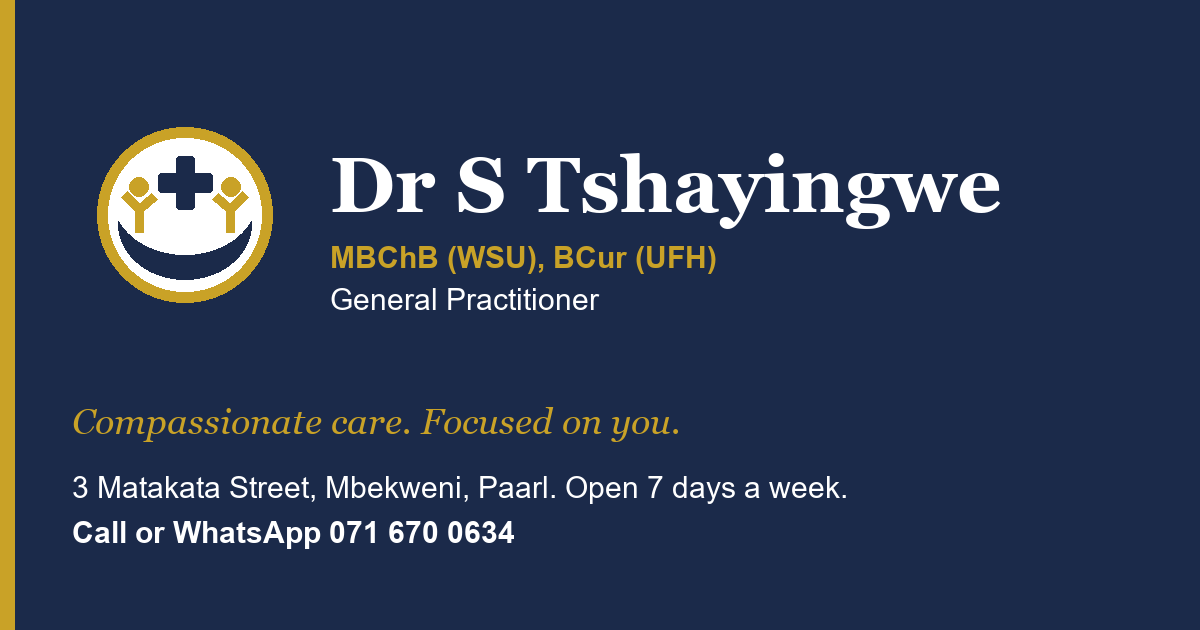
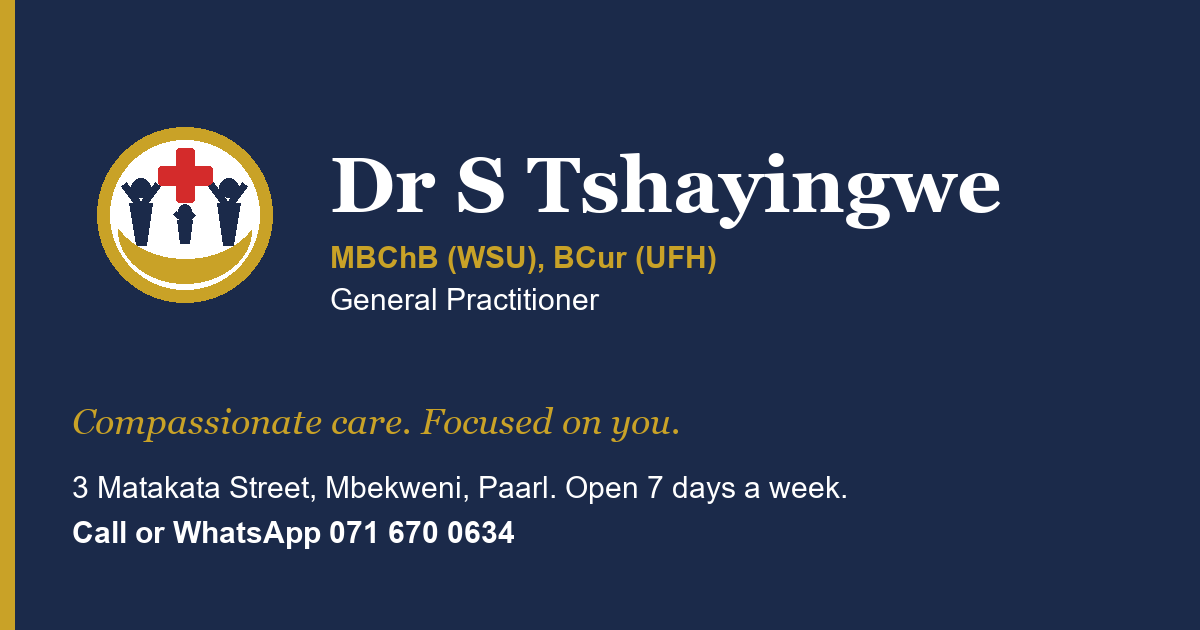
Brand emblem per acrylic-sign mockup (red cross, navy figures, gold hands); practice sees emergencies during opening times

Changed region(s): [[0.0925, 0.2111, 0.2158, 0.4524]]

diff --git a/src/components/Emblem.tsx b/src/components/Emblem.tsx
@@ -1,8 +1,9 @@
 /**
- * The practice emblem, redrawn as vector from the physical sign:
- * gold ring, navy medical cross, two gold figures with raised arms,
- * navy cupped hands holding them. Approved artwork should replace this
- * once a vector master exists.
+ * The practice emblem, redrawn as vector from the brand mockup:
+ * gold ring, red medical cross, two navy figures with raised arms,
+ * a smaller child figure, gold cupped hands holding them.
+ * Replace with the vectorised master once ChatGPT/Illustrator produces it
+ * (see Downloads\Dr S Tshayingwe Practice\Brand\Logo & Brand Prompts.md).
  */
 export default function Emblem({
   className = 'h-12 w-12',
@@ -22,40 +23,25 @@ export default function Emblem({
       aria-label={decorative ? undefined : title}
       focusable="false"
     >
-      <circle cx="50" cy="50" r="46" fill="#fff" stroke="#C9A227" strokeWidth="6" />
-      {/* cross */}
-      <rect x="45" y="19" width="10" height="28" rx="1.5" fill="#1B2A4A" />
-      <rect x="36" y="28" width="28" height="10" rx="1.5" fill="#1B2A4A" />
-      {/* left figure */}
-      <circle cx="26" cy="35" r="5" fill="#C9A227" />
-      <path
-        d="M26 59 V47 M26 47 L18 39 M26 47 L34 40"
-        stroke="#C9A227"
-        strokeWidth="5"
-        strokeLinecap="round"
-        fill="none"
-      />
-      {/* right figure */}
-      <circle cx="74" cy="35" r="5" fill="#C9A227" />
-      <path
-        d="M74 59 V47 M74 47 L82 39 M74 47 L66 40"
-        stroke="#C9A227"
-        strokeWidth="5"
-        strokeLinecap="round"
-        fill="none"
-      />
-      {/* cupped hands */}
-      <path
-        d="M15 55 C19 77 37 84 50 84 C63 84 81 77 85 55 C79 65 66 71 50 71 C34 71 21 65 15 55 Z"
-        fill="#1B2A4A"
-      />
-      <path
-        d="M21 52 c3 -3 7 -2 9 2 M79 52 c-3 -3 -7 -2 -9 2"
-        stroke="#1B2A4A"
-        strokeWidth="4"
-        strokeLinecap="round"
-        fill="none"
-      />
+      <circle cx="50" cy="50" r="46" fill="#fff" stroke="#C9A227" strokeWidth="7" />
+      {/* red cross */}
+      <rect x="45" y="15" width="10" height="28" rx="1.5" fill="#D42B2B" />
+      <rect x="36" y="24" width="28" height="10" rx="1.5" fill="#D42B2B" />
+      {/* left adult */}
+      <circle cx="27" cy="36" r="5" fill="#1B2A4A" />
+      <path d="M21 44 H33 L29.5 66 H24.5 Z" fill="#1B2A4A" />
+      <path d="M27 46 L18 34 M27 46 L36 34" stroke="#1B2A4A" strokeWidth="4.5" strokeLinecap="round" fill="none" />
+      {/* right adult */}
+      <circle cx="73" cy="36" r="5" fill="#1B2A4A" />
+      <path d="M67 44 H79 L75.5 66 H70.5 Z" fill="#1B2A4A" />
+      <path d="M73 46 L64 34 M73 46 L82 34" stroke="#1B2A4A" strokeWidth="4.5" strokeLinecap="round" fill="none" />
+      {/* child */}
+      <circle cx="50" cy="48" r="3.6" fill="#1B2A4A" />
+      <path d="M46 53 H54 L52.5 65 H47.5 Z" fill="#1B2A4A" />
+      <path d="M50 54 L45 49 M50 54 L55 49" stroke="#1B2A4A" strokeWidth="3.2" strokeLinecap="round" fill="none" />
+      {/* gold cupped hands */}
+      <path d="M15 58 C19 78 37 86 50 86 C63 86 81 78 85 58 C79 68 66 73 50 73 C34 73 21 68 15 58 Z" fill="#C9A227" />
+      <path d="M19 56 c3 -4 8 -3 10 1 M81 56 c-3 -4 -8 -3 -10 1" stroke="#C9A227" strokeWidth="4" strokeLinecap="round" fill="none" />
     </svg>
   );
 }

diff --git a/src/components/EmergencyNotice.tsx b/src/components/EmergencyNotice.tsx
@@ -1,26 +1,32 @@
-import { emergency } from '@/lib/practice';
+import { contact, emergency } from '@/lib/practice';
 
+/**
+ * Emergencies block. The practice sees medical emergencies during opening
+ * times; the ambulance numbers are for life-threatening cases and after hours.
+ */
 export default function EmergencyNotice({ compact = false }: { compact?: boolean }) {
   return (
-    <aside
-      aria-label="Emergency information"
-      className={`rounded-lg border-l-4 border-red-700 bg-red-50 text-red-950 ${compact ? 'p-4' : 'p-5 sm:p-6'}`}
-    >
-      <p className="font-bold">This practice is not an emergency service.</p>
+    <aside aria-label="Emergencies" className={`rounded-lg border-l-4 border-gold bg-cream text-ink ${compact ? 'p-4' : 'p-5 sm:p-6'}`}>
+      <p className="font-bold text-navy">Emergencies are seen during opening times.</p>
       <p className="mt-1">
-        If someone is seriously ill or injured, call{' '}
-        <a className="font-bold underline" href={emergency.ambulance.tel}>
+        Come straight to the practice, or call{' '}
+        <a className="font-bold text-navy underline decoration-gold-deep underline-offset-4" href={contact.tel}>
+          {contact.phoneDisplay}
+        </a>{' '}
+        on the way so we can prepare. If someone&rsquo;s life is in danger, or the practice is closed, call{' '}
+        <a className="font-bold text-navy underline decoration-gold-deep underline-offset-4" href={emergency.ambulance.tel}>
           {emergency.ambulance.number}
         </a>{' '}
-        for an ambulance, or{' '}
-        <a className="font-bold underline" href={emergency.cell.tel}>
+        for an ambulance or{' '}
+        <a className="font-bold text-navy underline decoration-gold-deep underline-offset-4" href={emergency.cell.tel}>
           {emergency.cell.number}
         </a>{' '}
-        from a cell phone, or go to the nearest hospital emergency unit (casualty).{' '}
+        from a cell phone.
         {!compact && (
           <>
-            {emergency.hospital.label}:{' '}
-            <a className="font-bold underline" href={emergency.hospital.tel}>
+            {' '}
+            {emergency.hospital.label} emergency unit (casualty):{' '}
+            <a className="font-bold text-navy underline decoration-gold-deep underline-offset-4" href={emergency.hospital.tel}>
               {emergency.hospital.number}
             </a>
             .

diff --git a/src/app/virtual-consultations/page.tsx b/src/app/virtual-consultations/page.tsx
@@ -34,16 +34,17 @@ export default function VirtualPage() {
           </div>
         </div>
 
-        <p className="mt-8 max-w-3xl rounded-lg border-l-4 border-red-700 bg-red-50 p-4 font-bold text-red-950">
-          In an emergency (chest pain, difficulty breathing, a serious injury or a very sick child) do not book a call: phone{' '}
-          <a className="underline" href={emergency.ambulance.tel}>
+        <p className="mt-8 max-w-3xl rounded-lg border-l-4 border-gold bg-cream p-4 font-bold text-navy">
+          In an emergency (chest pain, difficulty breathing, a serious injury or a very sick child) do not book a call. Come
+          straight to the practice during opening times. If the practice is closed or someone&rsquo;s life is in danger, phone{' '}
+          <a className="underline decoration-gold-deep underline-offset-4" href={emergency.ambulance.tel}>
             {emergency.ambulance.number}
-          </a>
-          , or{' '}
-          <a className="underline" href={emergency.cell.tel}>
+          </a>{' '}
+          for an ambulance or{' '}
+          <a className="underline decoration-gold-deep underline-offset-4" href={emergency.cell.tel}>
             {emergency.cell.number}
           </a>{' '}
-          from a cell phone, straight away.
+          from a cell phone.
         </p>
 
         <h2 className="mt-12 text-3xl">How it works</h2>

diff --git a/src/lib/practice.ts b/src/lib/practice.ts
@@ -114,6 +114,7 @@ export const services: ServiceGroup[] = [
     summary: 'Everyday medical care for adults and children, from a sore throat to a check-up before a new job.',
     items: [
       { name: 'Medical consultations', detail: 'Diagnosis and treatment of acute illness, with sick notes and referral letters when needed.' },
+      { name: 'Medical emergencies', detail: 'Seen during opening times. Come straight in, or call 071 670 0634 on the way. If hospital care is needed, we arrange the referral or the ambulance.' },
       { name: 'Wellness screenings', detail: 'Blood pressure, blood sugar, weight and general health checks.' },
       { name: 'PDP and medical assessments', detail: 'Medical examinations for professional driving permits and other fitness certificates.' },
       { name: 'Drips and injections', detail: 'Intravenous fluids or medicines given at the practice when you need them, for example for dehydration, so that you can be treated without going to hospital.' },
@@ -208,6 +209,7 @@ export const virtualConsultation = {
     'Advice on whether you need to be seen in person',
   ],
   notFor: [
+    'Emergencies and injuries: come straight to the practice during opening times',
     'Problems that need a physical examination, a procedure or an injection',
     'A first consultation for a chronic condition',
   ],

diff --git a/src/lib/schema.tsx b/src/lib/schema.tsx
@@ -39,7 +39,7 @@ export function siteSchema() {
         '@id': CLINIC_ID,
         name: doctor.shortName,
         alternateName: [doctor.fullName, `${doctor.shortName} General Practitioner`],
-        description: `${tagline} General practitioner in Mbekweni, Paarl: consultations, chronic disease care, child and family health, minor procedures, HIV testing, women's and men's health, and virtual consultations. Open seven days a week.`,
+        description: `${tagline} General practitioner in Mbekweni, Paarl: consultations, chronic disease care, child and family health, minor procedures, HIV testing, women's and men's health, and virtual consultations. Medical emergencies seen during opening times. Open seven days a week.`,
         url: `${SITE_URL}/`,
         telephone: contact.phoneE164,
         email: contact.email,

diff --git a/README.md b/README.md
@@ -41,5 +41,5 @@ Source photos and the print-collateral prompts are in `Downloads\Dr S Tshayingwe
 
 - Copy is factual and avoids comparative or promotional claims (HPCSA ethical rules 3 and 4).
 - No patient testimonials on the site.
-- Emergency numbers (10177, 112, Paarl Hospital) appear on every page that describes services.
+- The practice sees medical emergencies during opening times; every service page says so and gives 10177 / 112 / Paarl Hospital for after hours and ambulances.
 - The Google Map is loaded only after the visitor presses "Show map"; the site sets no cookies (POPIA).
